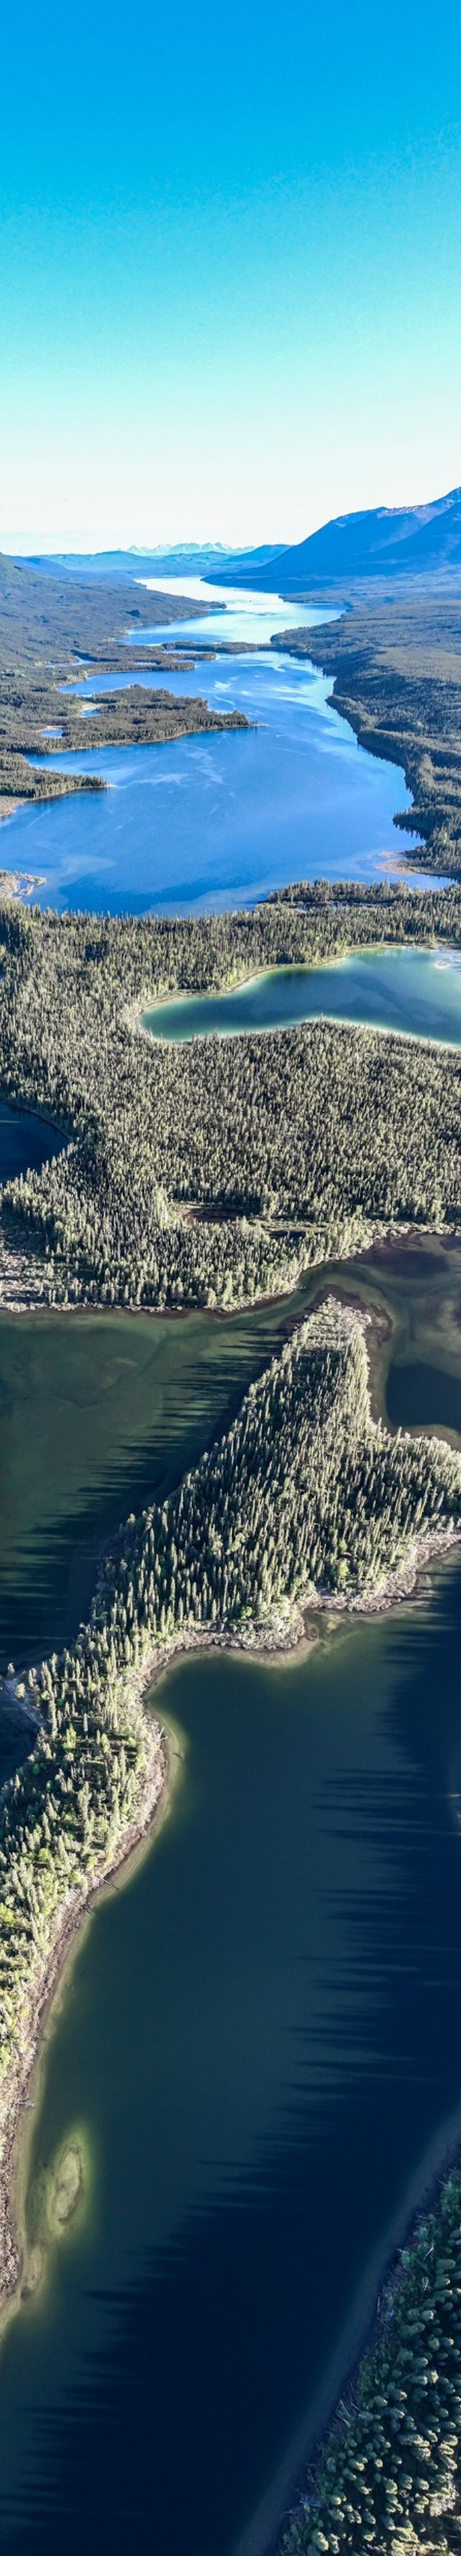
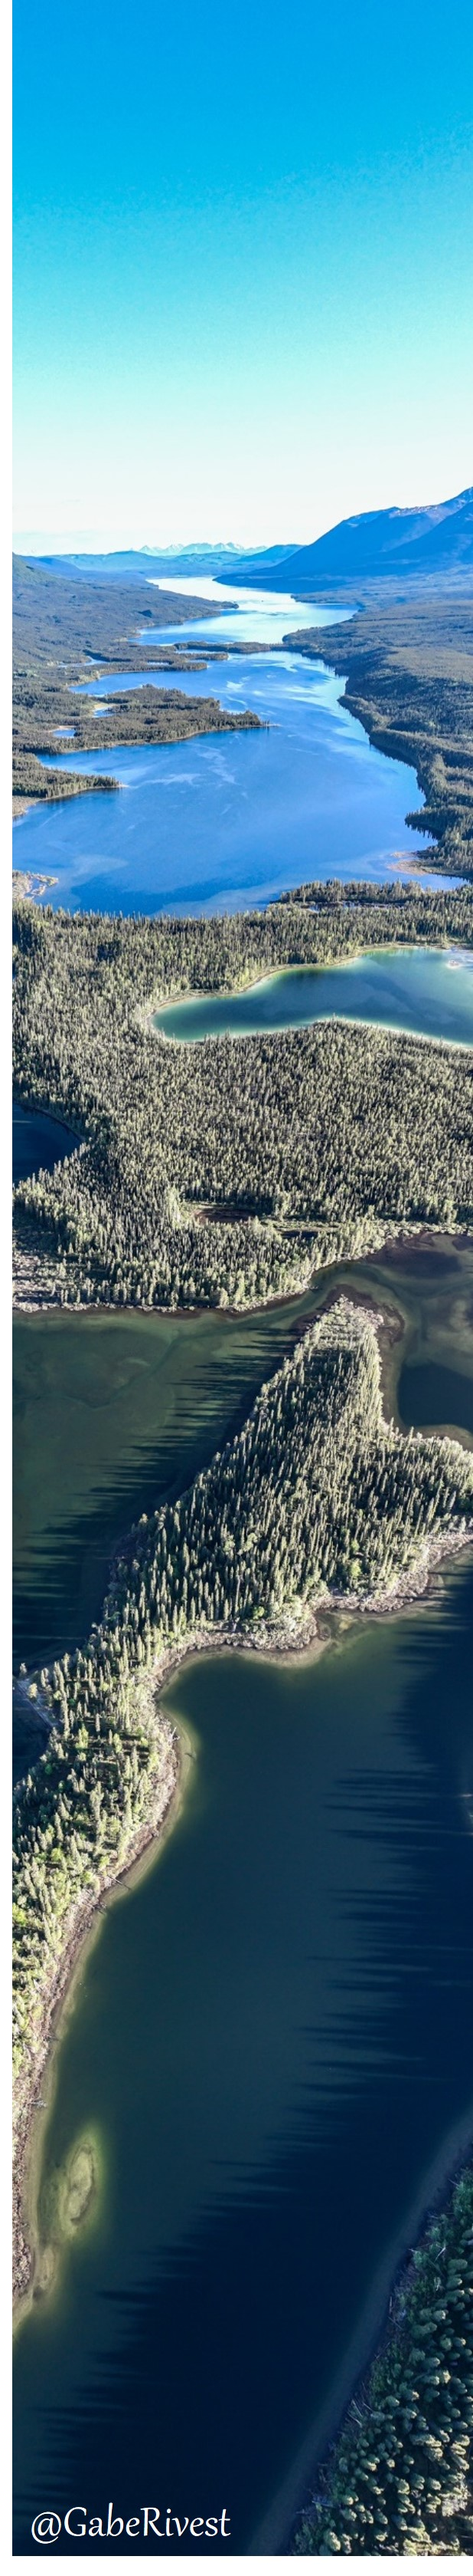
Add authorship to picture

diff --git a/docs/overview.md b/docs/overview.md
@@ -60,5 +60,5 @@ accurate analysis.
 The worflow diagram below provides an overview of the process.
 
 <br><br>
-<center><img src="pics/workflow.png" width="800"><br>Workflow diagram of the Disturbance Explorer app.</center>
+<center><img src="pics/workflow.png" width="800"></center>
 <br><br>
